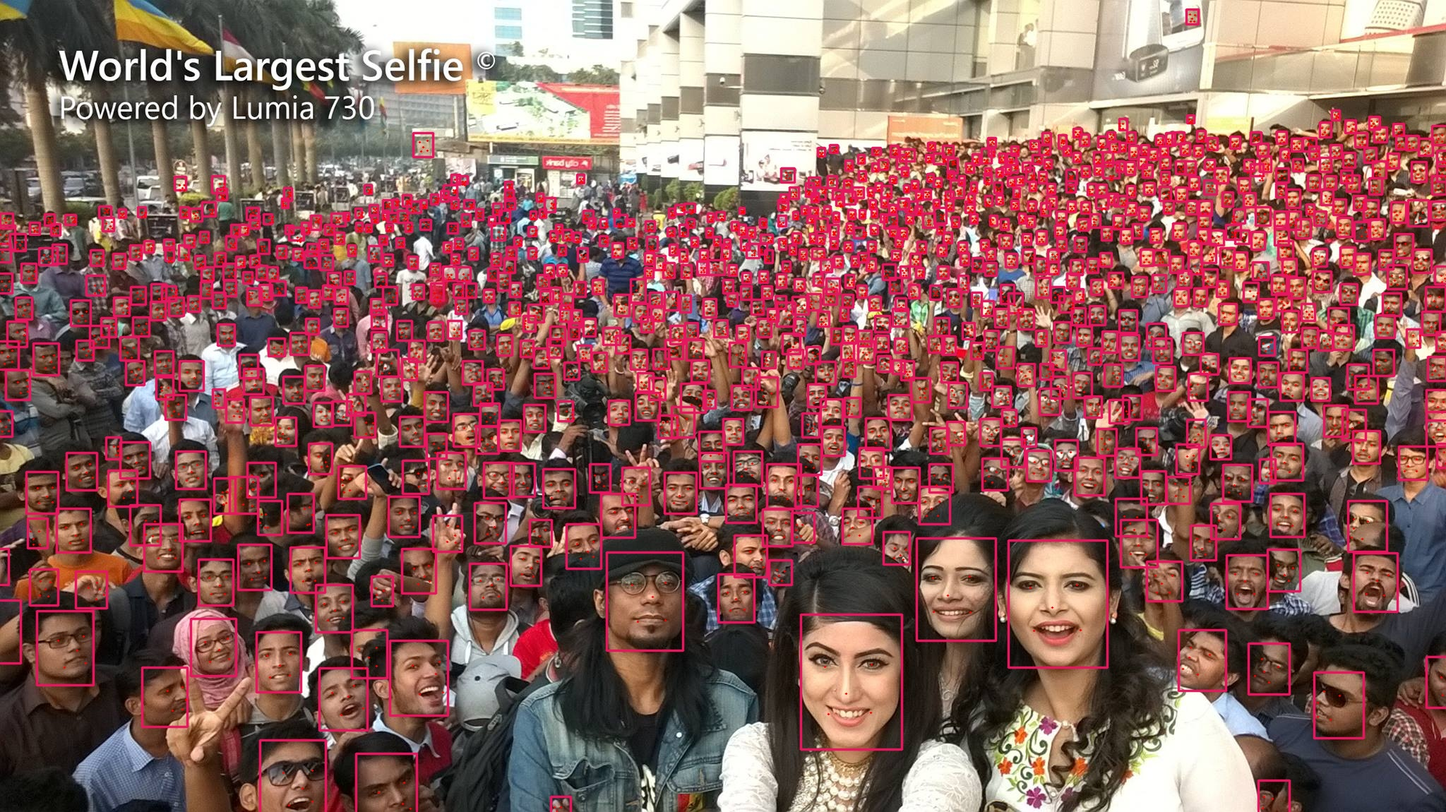
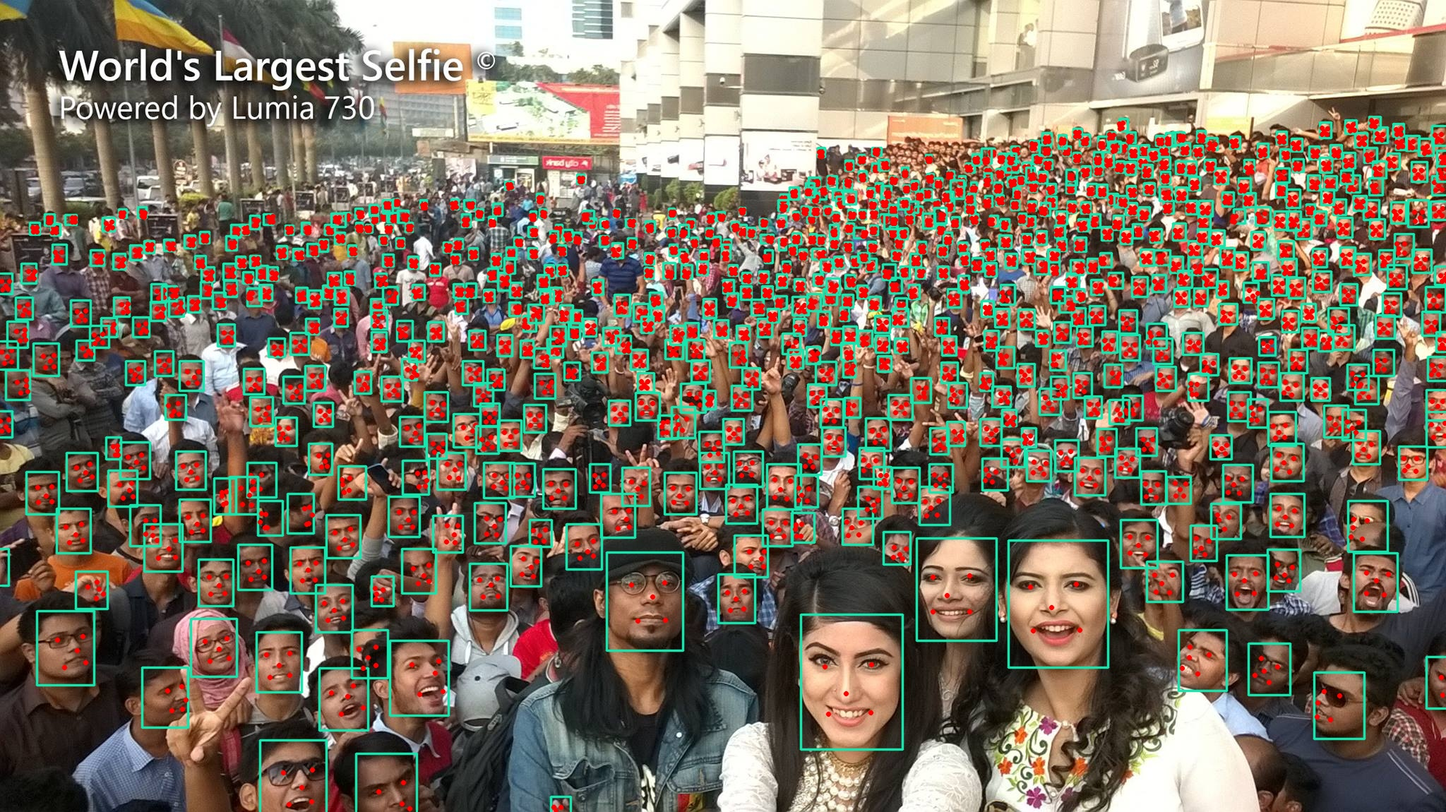
update

diff --git a/README.md b/README.md
@@ -10,7 +10,7 @@ DBFace is a real-time, single-stage detector for face detection, with faster spe
 Method | Version | Size | Easy | Medium | Hard
 -|-|-|-|-|-
 RetinaFace-MobileNetV2 | Small | 1.68MB  | 0.896 | 0.871 | 0.681
-DBFace-MobileNetV3-H(Ours)   | Small   | 1.75MB | 0.886 | 0.860  | 0.731 
+DBFace-Small-H(Ours)   | Small   | 1.75MB | 0.886 | 0.860  | 0.731 
 DBFace-MobileNetV3 (Ours) | Large | 7.03MB | **0.905** | **0.896** | **0.794** 
 CenterFace-MobileNetV2 | Large | 7.3MB | ? | ? | ?
 
@@ -20,6 +20,10 @@ CenterFace-MobileNetV2 | Large | 7.3MB | ? | ? | ?
 ![selfie](result/selfie.draw.jpg)
 
 ---
+
+## Result on DBFace Small-H (threshold = 0.3)
+
+![selfie](result/selfie.small.draw.jpg)
 
 ## Result on RetinaFace-MobileNetV2 (threshold=0.2)
 
